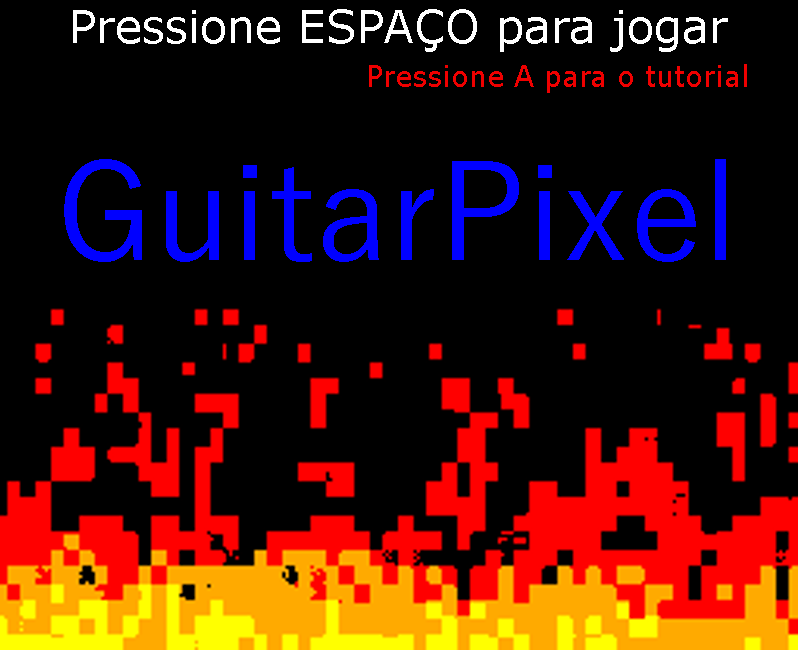
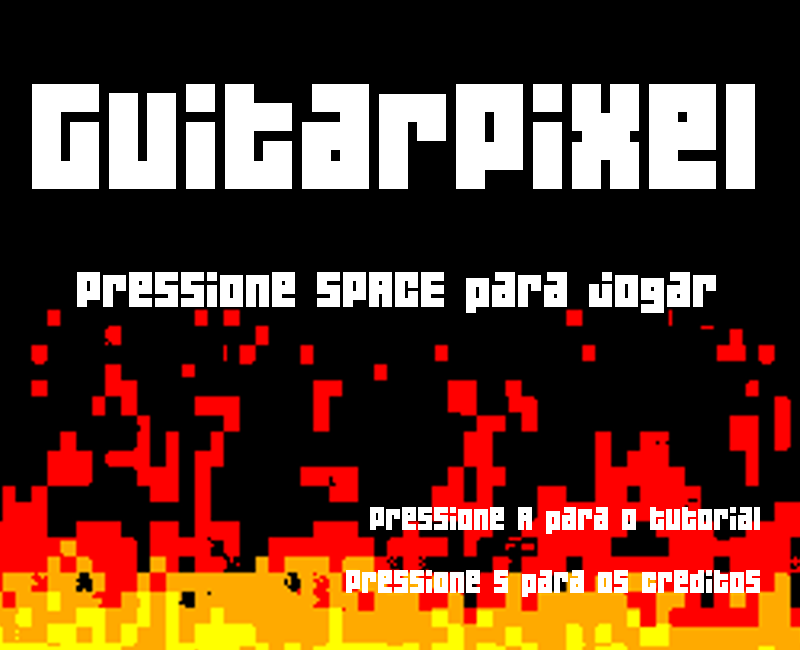
Nova tela de inicio, botoes, tutorial

diff --git a/pygame tutorial.py b/pygame tutorial.py
@@ -26,7 +26,7 @@ bright_green = (0,200,0)
 FPS = 60
 
 gameDisplay = pygame.display.set_mode((display_width, display_height))
-pygame.display.set_caption(('Guitar Student!'))
+pygame.display.set_caption(('GUITARPIXEL!'))
 
 gameIcon = pygame.image.load('guitar_icon.png') #mudar icone
 pygame.display.set_icon(gameIcon)
@@ -38,13 +38,20 @@ gerente_imagens = t.GerenciadorImagens()
 
 bg = pygame.image.load("fundofogo.png")
 
-guitarraImg = pygame.image.load('guitarra.png')
+guitarraImg = pygame.image.load('guitarra2.png')
 guitarraImg = pygame.transform.scale(guitarraImg, (800,650))
 
-escolhaImg = pygame.image.load('escolhamusica1.png')
+escolhaImg = pygame.image.load('escolhamusica.png')
 escolhaImg = pygame.transform.scale(escolhaImg, (800,650))
 
+tutorialImg = pygame.image.load('tutorial.png')
+tutorialImg = pygame.transform.scale(tutorialImg, (800,650))
+
+introImg = pygame.image.load('pressioneespaco.png')
+introImg = pygame.transform.scale(introImg, (800,650))
+
 pause = False
+tutorial = False
 
 modo = -1 
 
@@ -109,32 +116,8 @@ def imagebutton(x,y,w,h,imagem1,imagem2,action):
        Img2botao = pygame.image.load(imagem2)
        Img2botao = pygame.transform.scale(Img2botao, (w,h))
        gameDisplay.blit(Img2botao,(x , y))
-     
-def blink(img):
-    global intro, gameDisplay
-    
-    Image = pygame.image.load(img)
-    blank = pygame.image.load('blank.png')
-    
-    show_image = False
-    
-    while intro == True:
-    
-        clock.tick(10) 
-    
-        if show_image:    
-            gameDisplay.blit(Image, (0, 0))    
-            show_image = False
-    
-        else:    
-            gameDisplay.blit(blank, (0, 0))    
-            show_image = True
-    
-        pygame.display.flip()
-
-         
-          
-
+             
+             
 def sair_jogo():
     global intro, escolha
     escolha = "Sair"
@@ -195,11 +178,36 @@ def escolha_modo6(): #bohemian rhapsody
 #    global modo
 #    modo = 9
 #    loop_jogo()
+   
+def game_tutorial():
+    global tutorial, Menu, FPS, tutorialImg
+
+    tutorial = True
+    
+    while tutorial:
+        
+        gameDisplay.blit(tutorialImg,(0 , 0))
+             
+        for event in pygame.event.get():
+            
+            if event.type == pygame.QUIT:
+                quit()
+
+            if event.type == pygame.KEYDOWN:
+                
+                if event.key == pygame.K_z:
+                    game_intro()
+
+                if event.key == pygame.K_ESCAPE:
+                    quit()
+
+        pygame.display.update()
     
 def game_intro():
-    global intro, Menu, FPS, movie, movie_screen, screen
-
+    global intro, Menu, FPS, tutorial, introImg
+    
     intro = True
+    tutorial = False
       
     pygame.mixer.music.load('musicaintro.mp3')
     pygame.mixer.music.play(0)
@@ -215,18 +223,16 @@ def game_intro():
                 
                 if event.key == pygame.K_SPACE:
                     Menu_musica()
-                    
+
+                if event.key == pygame.K_a:
+                    game_tutorial()
+                       
                 if event.key == pygame.K_ESCAPE:
                     quit()
-                
-                if event.key == pygame.K_z:
-                    print('tutorial')
 
-        gameDisplay.fill(white)
-        largeText = pygame.font.Font('freesansbold.ttf',100)
-        TextSurf, TextRect = text_objects("Guitar Student", largeText)
-        TextRect.center = ((display_width/2),(display_height/2))
-        gameDisplay.blit(TextSurf, TextRect)
+        gameDisplay.blit(introImg,(0 , 0))
+        
+
         
         pygame.display.update()
         clock.tick(FPS)    
@@ -252,9 +258,7 @@ def paused():
         pygame.mixer.music.pause()        
         
         imagebutton(80,424,300,150,'continuar1.png', 'continuar2.png', unpause)
-
         imagebutton(350,450,200,100,'menu1.png','menu2.png', game_intro)
-
         imagebutton(500,450,200,100,'sair2.png','sair1.png',sair_jogo2)
         
         pygame.display.update()
@@ -301,11 +305,11 @@ def tela_final_bom():
         pygame.mixer.music.pause()        
         
         imagebutton(350,450,200,100,'menu1.png','menu2.png', game_intro)
-      
         imagebutton(500,450,200,100,'sair2.png','sair1.png',sair_jogo2)
         
         pygame.display.update()
         clock.tick(15)
+        
 def tela_fail():
     while tela_fail:
         for event in pygame.event.get():
@@ -410,9 +414,10 @@ def Menu_musica():
         imagebutton(display_width-190,570,180,90,'sair1.png','sair2.png', sair_jogo2)
         imagebutton(coluna1,(100+altbot+espaco),largbot,altbot,'rollinginthedeep2.png', 'rollinginthedeep1.png', escolha_modo4)
         imagebutton(coluna1,(100+2*(altbot+espaco)),largbot,altbot,'FiO1.png', 'FiO2.png', escolha_modo5)
+        imagebutton(coluna1,(100+3*(altbot+espaco)),largbot,altbot,'HoG1.png', 'HoG2.png', escolha_modo2)        
         imagebutton(coluna2,(100+1*(altbot+espaco)),largbot,altbot,'ComWS1.png', 'ComWS2.png', escolha_modo1)
         imagebutton(coluna2,(100+2*(altbot+espaco)),largbot,altbot,'CoD2.png', 'CoD1.png', escolha_modo2)
-        imagebutton(coluna1,(100+3*(altbot+espaco)),largbot,altbot,'HoG1.png', 'HoG2.png', escolha_modo2)
+        imagebutton(coluna2,(100+3*(altbot+espaco)),largbot,altbot,'BR2.png', 'BR1.png', escolha_modo6)
         
         pygame.display.update()
         clock.tick(15)

diff --git a/modificacoes_elisa.py b/modificacoes_elisa.py
@@ -32,7 +32,7 @@ bright_green = (0,200,0)
 FPS = 60
 
 gameDisplay = pygame.display.set_mode((display_width, display_height))
-pygame.display.set_caption(('Pixel Guitar!'))
+pygame.display.set_caption(('PixelGuitar!'))
 
 gameIcon = pygame.image.load('guitar_icon.png') #mudar icone
 pygame.display.set_icon(gameIcon)
@@ -128,28 +128,6 @@ def imagebutton(x,y,w,h,imagem1,imagem2,action):
        Img2botao = pygame.transform.scale(Img2botao, (w,h))
        gameDisplay.blit(Img2botao,(x , y))
      
-def blink(img):
-    global intro, gameDisplay
-    
-    Image = pygame.image.load(img)
-    blank = pygame.image.load('blank.png')
-    
-    show_image = False
-    
-    while intro == True:
-    
-        clock.tick(10) 
-    
-        if show_image:    
-            gameDisplay.blit(Image, (0, 0))    
-            show_image = False
-    
-        else:    
-            gameDisplay.blit(blank, (0, 0))    
-            show_image = True
-    
-        pygame.display.flip()
-
          
           
 
